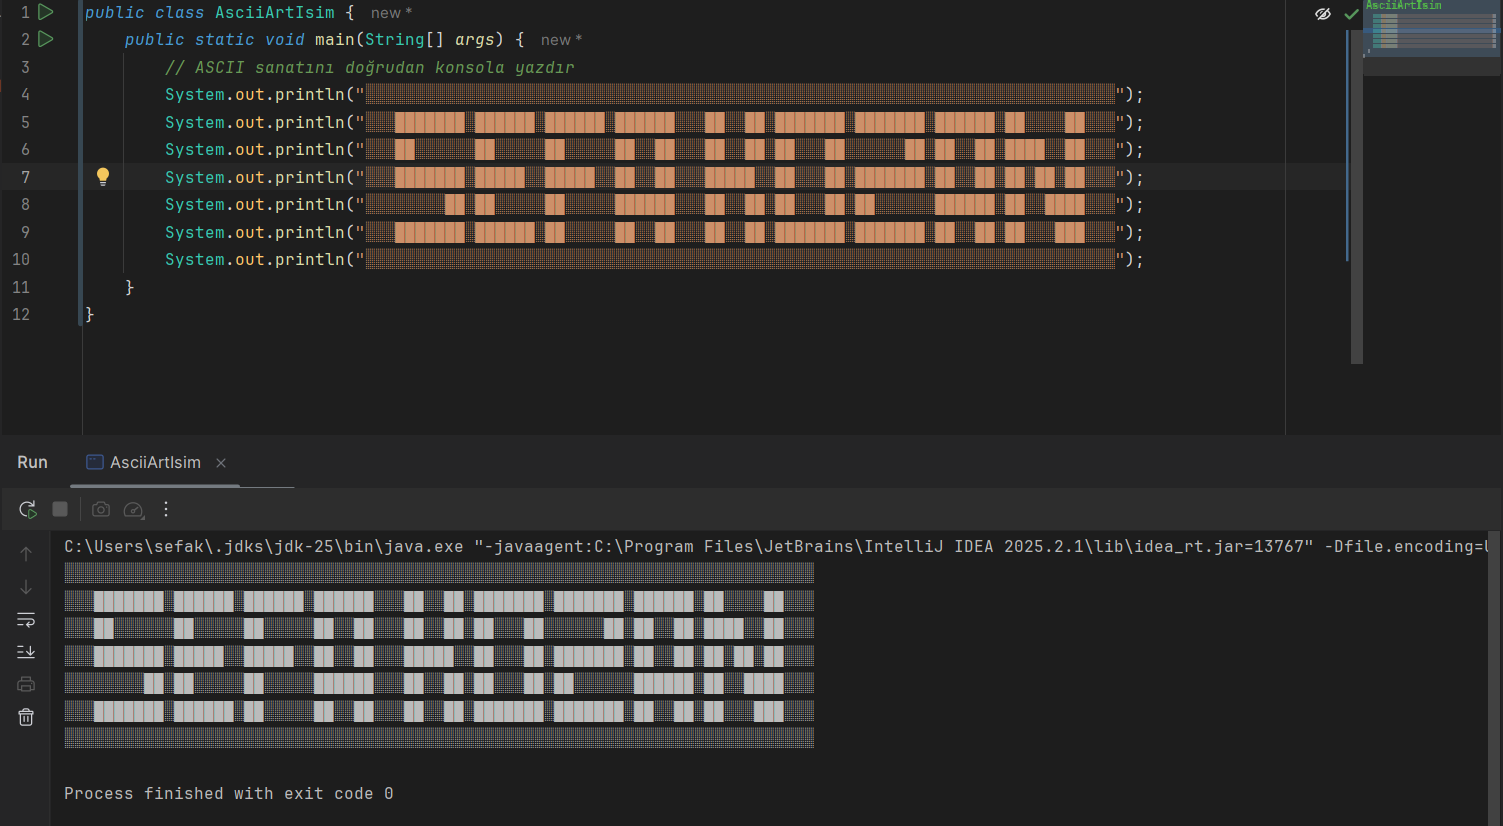
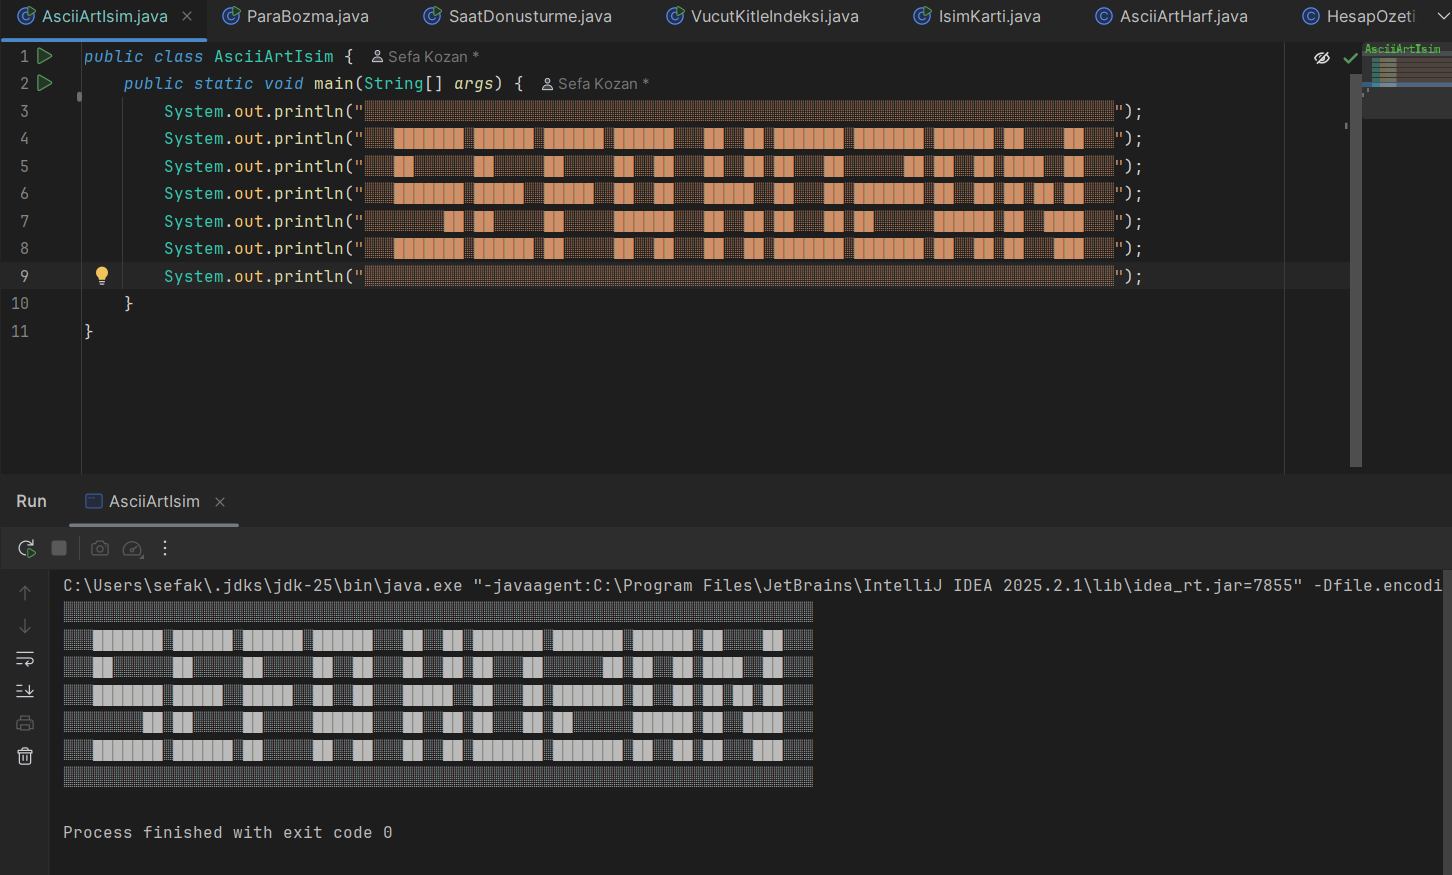
Update Files

diff --git a/TASK-BONUS/src/AsciiArtIsim.java b/TASK-BONUS/src/AsciiArtIsim.java
@@ -1,6 +1,5 @@
 public class AsciiArtIsim {
     public static void main(String[] args) {
-        // ASCII sanatını doğrudan konsola yazdır
         System.out.println("░░░░░░░░░░░░░░░░░░░░░░░░░░░░░░░░░░░░░░░░░░░░░░░░░░░░░░░░░░░░░░░░░░░░░░░░░░░");
         System.out.println("░░░███████░██████░██████░██████░░░██░░██░███████░███████░██████░██░░░░██░░░");
         System.out.println("░░░██░░░░░░██░░░░░██░░░░░██░░██░░░██░░██░██░░░██░░░░░░██░██░░██░████░░██░░░");

diff --git a/Task-4-StringDesenler/src/HesapOzeti.java b/Task-4-StringDesenler/src/HesapOzeti.java
@@ -11,7 +11,7 @@
 
 public class HesapOzeti {
     public static void main(String[] args) {
-        // Alışveriş listesi verileri
+        // Alışveriş listesi verileri dizi kullanilarak olusturuldu
         String[] urunler = {"Elma", "Süt", "Ekmek", "Gevrek", "Yumurta", "Çay"};
         int[] miktar = {5, 2, 3, 1, 30, 1};
         double[] fiyat = {50, 120, 45, 120, 150, 200};

diff --git a/Task-3-GeometrikHesaplamalar/src/DaireHesap.java b/Task-3-GeometrikHesaplamalar/src/DaireHesap.java
@@ -4,6 +4,7 @@ public class DaireHesap {
         double area, perimeter;
         area = pi * r * r;
         perimeter = 2 * pi * r;
+
         System.out.printf("Yarıçapı: %.1f olan dairenin: (pi = 3.1415)\n",r);
         System.out.printf("Alan: %.3f\n", area);
         System.out.printf("Cevre: %.3f\n", perimeter);

diff --git a/Task-4-StringDesenler/README-4.md b/Task-4-StringDesenler/README-4.md
@@ -4,6 +4,7 @@
 ASCII Art ve Tablolar üzerine çalışıldı. Tablo oluştulurken kullanılan ekstra kodlar bulunmaktadır.  
 - repeat() fonksiyonu kullanıldı.
 - for döngüsü ile tablo oluşturuldu. 
+- diziler kullanıldı
 
 ### ASCII Art Harf
 ![](media/AsciiArtHarf.png)

diff --git a/TASK-BONUS/README-Bonus.md b/TASK-BONUS/README-Bonus.md
@@ -9,7 +9,7 @@
 ![](media/VucutKitleIndeksi.png)
 
 ### ASCII Art İsim
-![](media/AsciiArtIsim.png)
+![img.png](media/AsciiArtIsim.png)
 
 ### Para Bozma
 ![](media/ParaBozma.png)
